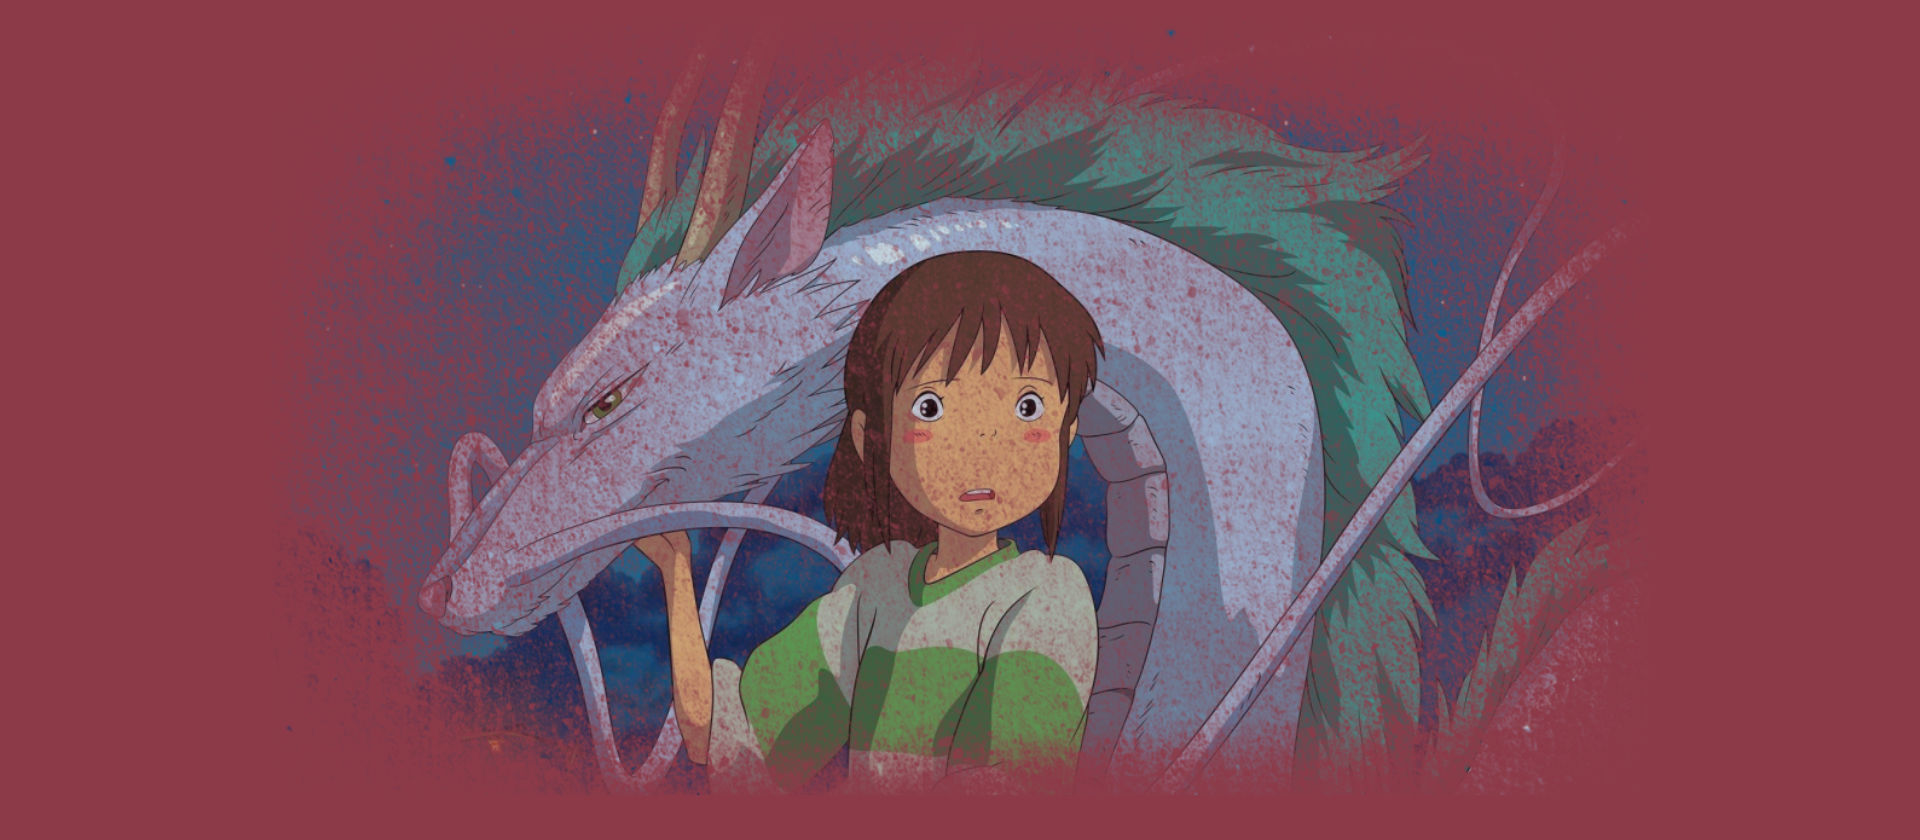
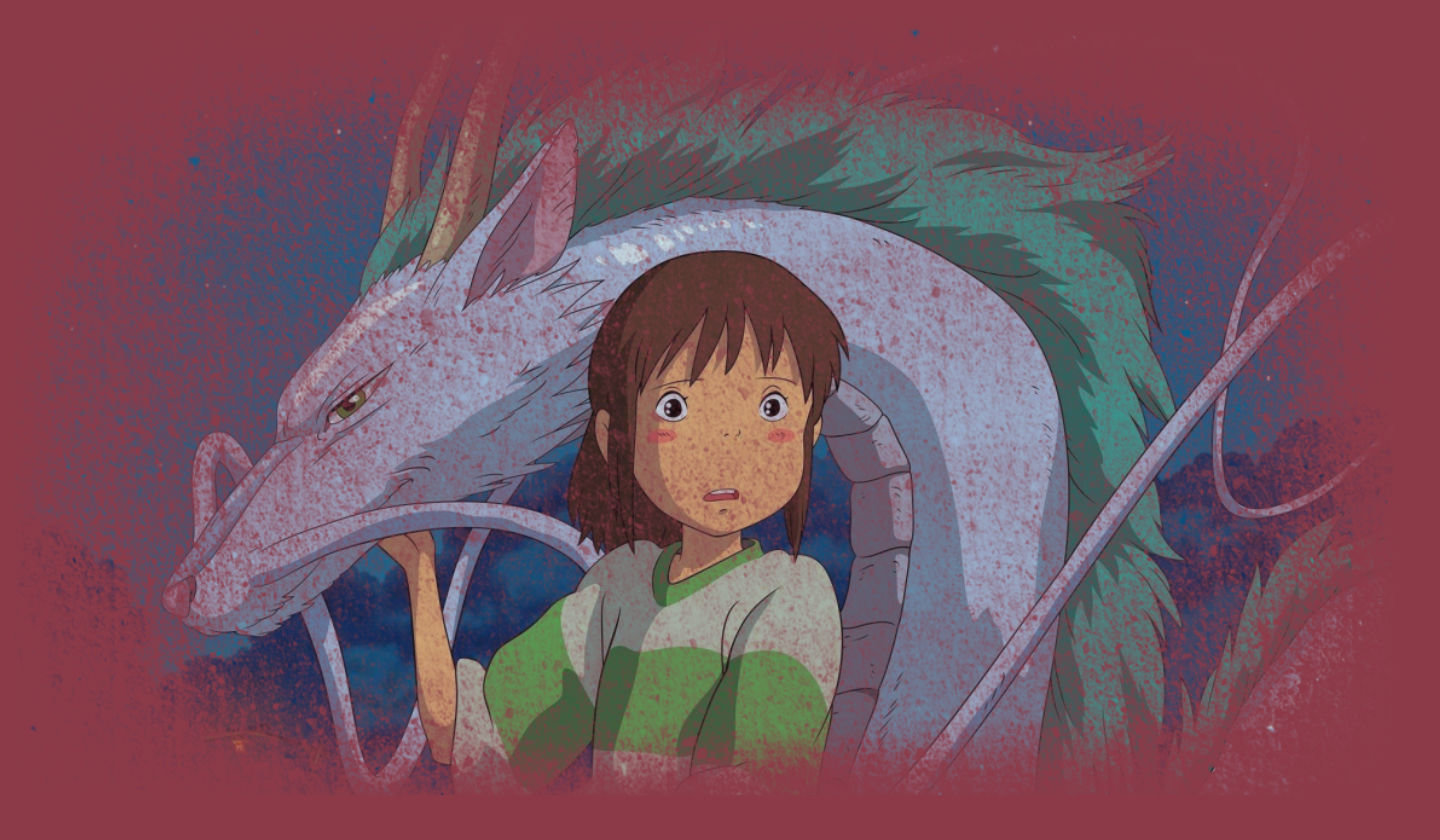
....

diff --git a/styles/style.css b/styles/style.css
@@ -33,11 +33,45 @@ body {
     display: none;
 }
 
+/* Hero img */
+.heroImg {
+    display: flex;
+    margin: 0 auto;
+    width: 80%;
+}
+
+/* Hero */
+.heroImgBackground {
+    background-color: #8C3A48;
+    width: 100%;
+    
+}
+
+.h1-mobile-index {
+    color: white;
+    margin: 0;
+}
+
+.heroImg h1 {
+    margin: 0;
+}
+
+.heroImg h2 {
+    margin-top: 180px;
+}
+
+.heroImg h1, .heroImg h2 {
+    
+    position: absolute;
+}
+
+.heroImg img {
+    margin: 0 auto;
+    width: 100%;
+}
+
 
 /* Dropdown menu */
-
-
-
 .menu-links {
     display: flex;
     position: absolute;
@@ -145,14 +179,14 @@ footer p {
     flex-direction: column;
     justify-content: center;
     height: 400px;
-    margin-bottom: 30px;
+    margin: 60px 0;
 }
 
 .index-welcome p {
     margin: 10px 0;
 }
 
-/* slider */
+/* Carousel */
 
 .carousel-bg {
     display: flex;
@@ -218,23 +252,6 @@ footer p {
 
 .button-toggle {
     display: none;
-}
-
-/* .next {
-    margin-left: 300px;
-}
-
-.back {
-    margin-right: 300px;
-} */
-
-/* Index main */
-.index-welcome {
-    display: flex;
-    flex-direction: column;
-    justify-content: center;
-    height: 600px;
-    margin-bottom: 30px;
 }
 
 
@@ -303,27 +320,34 @@ footer p {
 }
 
 .specific-post {
-    display: flex;
-    align-items: center;
-    flex-direction: column;
-    /* padding: 30px; */
-    margin: 60px auto 0 auto;
-    width: 100%;
+    margin: 30px 0;
 }
 
 .specific-post p {
-    margin-bottom: 30px;
+    margin: 30px auto ;
 }
 
-.specific-post img {
+.modal-img {
+    display: flex;
+    align-items: center;
+    flex-direction: column;
+    width: 200px;
+    margin-top: 60px;
+}
+
+.modal-active {
+    width: 90vw;
+    max-width: 400px;
+    margin-bottom: 60px;
+}
+
+.modal-img img {
+    
+    object-fit: cover;
     width: 100%;
-    max-width: 300px;
 }
-
-
 
 /* contact */
-
 #contact-form {
     display: flex;
     flex-direction: column;
@@ -339,8 +363,11 @@ footer p {
     font-size: 16px;
 }
 
-/* About us */
+textarea {
+    resize: none;
+}
 
+/* About us */
 .about-main {
     margin: 60px auto;
 }
@@ -348,10 +375,6 @@ footer p {
 .about-main p {
     margin-top: 30px;
 }
-
-
-
-
 
 /********** Tablet **********/
 @media screen and (min-width: 760px) {
@@ -389,17 +412,13 @@ footer p {
     .index-welcome {
         height: 500px;
         width: 80%;
+        max-width: 1520px;
     }
 
-    /* Bloglist */
-    /* .single-post {
-        margin: 0 auto 80px auto;
-    } */
-
-    /* blog specific */
-    .specific-post p {
+    /* Blog specific */
+    .specific-post {
         width: 80%;
-        margin-top: 30px;
+        max-width: 1480px;
     }
 
     /* About us */
@@ -429,6 +448,7 @@ footer p {
     .nav-desktop {
         display: flex;
         width: 80%;
+        max-width: 1520px;
         padding: 30px 0;
         margin: 0 auto;
         justify-content: space-between;
@@ -436,7 +456,7 @@ footer p {
     }
 
     #logo {
-        width: 250px;
+        width: 200px;
     }
 
     .desk-links {
@@ -470,46 +490,29 @@ footer p {
         
     }
 
-    /* Hero */
-    .heroImgBackground {
-        background-color: #8C3A48;
-        width: 100%;
-    }
-
     .heroImg {
-        display: flex;
-        
-        margin: 0 auto;
-        width: 80%;
-    }
-
-    .h1-mobile-index {
-        color: white;
-        margin: 0;
-    }
-
-    .heroImg h2 {
-        margin: 60px 0 0 30px;
-    }
-
-    .heroImg h1, .heroImg h2 {
-        
-        position: absolute;
+        max-width: 1520px;
     }
 
     .heroImg img {
         margin: 0 auto;
-        width: 1300px;
+        width: 60%;
     }
+
 }
 
 
 /********** Laptop **********/
 @media screen and (min-width: 1440px) {
 
+    main {
+        padding: 0;
+    }
+
     /* carousel */
     .carousel-bg {
-        padding: 80px 0;
+        width: 100%;
+        padding: 40px 0;
     }
 
     .container {

diff --git a/js/blog-specific.js b/js/blog-specific.js
@@ -5,15 +5,31 @@ const id = param.get("id");
 const url = `https://knudsenweb.no/wp-json/wp/v2/posts/${id}?_embed=true`;
 const specificH1 = document.querySelector(".h1-specific");
 const specifictPost = document.querySelector(".specific-post");
+const modal = document.querySelector(".modal-img");
 
 // Fetching specific blog post
 function blogSpecific(post) {
     specificH1.innerHTML = post.title.rendered;
     let img = post._embedded["wp:featuredmedia"][0].source_url;
-    specifictPost.innerHTML += `<img src="${img}">
-                                <p>${post.content.rendered}</p>`
-}
+    specifictPost.innerHTML += `<p>${post.content.rendered}</p>`
+    modal.innerHTML += `<img src="${img}">`
 
+    modal.addEventListener("click", function(){
+        modal.classList.toggle("modal-active");
+        if (specifictPost.style.display === "none") {
+            specifictPost.style.display = "block";
+        } else {
+            specifictPost.style.display = "none";
+        }
+    });
+
+    // body.addEventListener("click", function(){
+    //     if (modal.classList.contains("modal-active")) {
+    //         modal.classList.remove("modal-active");
+    //     }
+    // }) 
+    
+}
 
 
 fetch(url)

diff --git a/index.html b/index.html
@@ -60,8 +60,6 @@
 
     <main>
         <div class="index-welcome">
-            
-
             <p>Lorem ipsum dolor sit amet, consectetur adipiscing elit. Maecenas eu turpis tempus, efficitur nisi in, suscipit est. 
                 Quisque ultricies fringilla libero vel auctor. Pellentesque porta ultricies dapibus. Aenean sagittis faucibus odio eget rhoncus.
                  Aenean sit amet libero ac ipsum eleifend mattis non dignissim neque. Pellentesque a interdum velit.</p>
@@ -80,7 +78,9 @@
             </div>
         </div>
         <img src="img/rightarrow.svg" alt="arrow right" class="next">
-    </div> 
+    </div>
+         <!--Carousel end  -->
+
     </main>
     <footer>
             <p>&copy;copyright 2021</p>

diff --git a/blogspecific.html b/blogspecific.html
@@ -50,8 +50,8 @@
     </div>
 
     <main>
-        <div class="specific-post">
-        </div>
+        <div class="modal-img"></div>
+        <div class="specific-post"></div>
     </main>
 
     <footer>
@@ -63,6 +63,7 @@
             <a href="#"><img src="img/reddit-icon.svg" alt="">r/animeblog</a>
         </div>
     </footer>
+    
     <script src="js/blog-specific.js"></script>
     <script src="js/menu.js"></script>
 </body>
